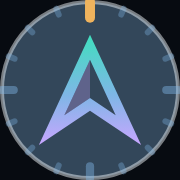
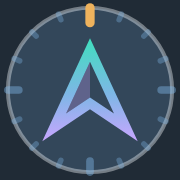
Stand the dial on a tile instead of letting it float
The dial went into the tab and onto the home screen with no ground
behind it at all, which made the icon a circle in a row of rounded
squares and left the disc's rim doing the whole job of separating the
mark from whatever the browser or the launcher happened to be. Put it
back on a tile: the plate color from Midnight Aurora, rounded in the
favicon where nothing else is going to round it, square in the two
painted files because every launcher masks the square itself and
rounding it twice leaves a dark fringe outside the mask.

The disc comes in to radius 14.6 of the 32 unit box so the tile shows
around it, and the instrument scales with it, which keeps the outermost
graduation on the rim where the sign-in screen puts it. The maskable
copy is unchanged at 12.3, still inside the circle a launcher is
allowed to crop to.

diff --git a/app/manifest.js b/app/manifest.js
@@ -12,9 +12,12 @@
  * dark icon is a seam you see every cold start, so they are the dark page.
  *
  * The icons are the sign-in dial: a slate disc with the sixteen graduations and
- * the needle in Midnight Aurora's four accents, on that skin's page rather than
- * on a tile. This is the one place the mark cannot follow the skin, because a
- * file on a home screen is painted once. Two of them, because a launcher does
+ * the needle in Midnight Aurora's four accents, standing on a tile in that
+ * skin's plate color so the disc has something to be a disc against. This is
+ * the one place the mark cannot follow the skin, because a file on a home
+ * screen is painted once. The tiles are square-cornered on purpose -- every
+ * launcher masks the square itself, and rounding it here too leaves a dark
+ * fringe outside the mask. Two of them, because a launcher does
  * two different things with an icon -- one shown as given, and one edge-to-edge
  * maskable copy with the instrument pulled in to radius 12.3 of the 32-unit box
  * so nothing that means anything crosses the circle a launcher may crop to.
